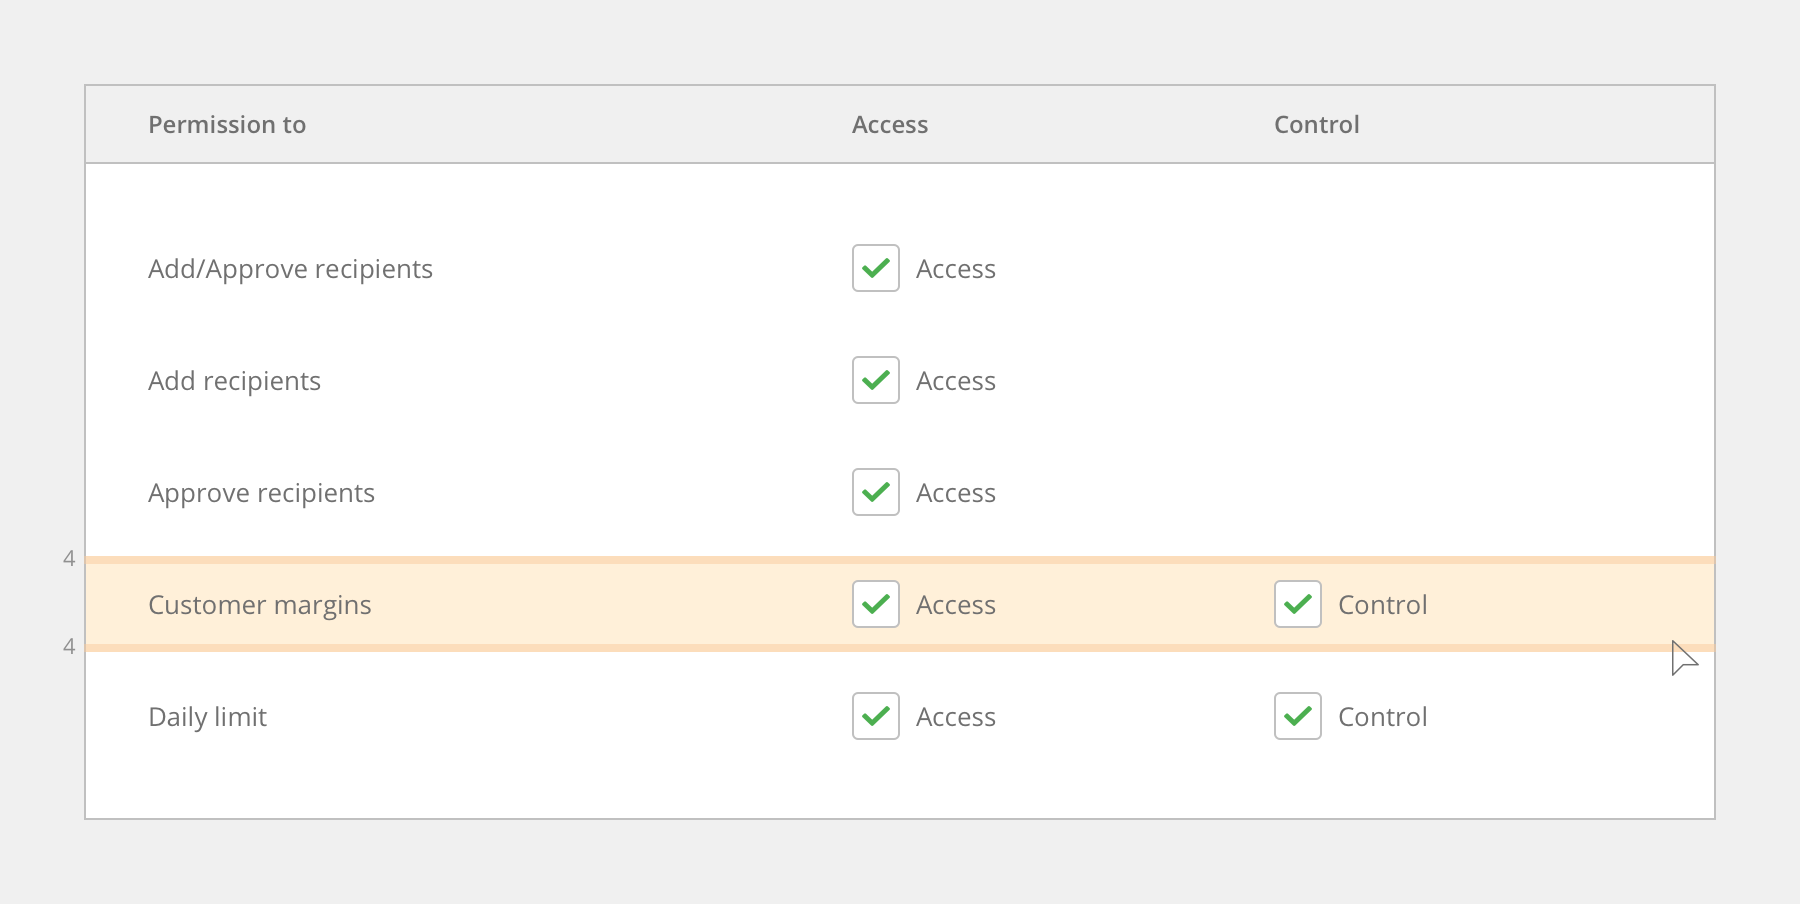
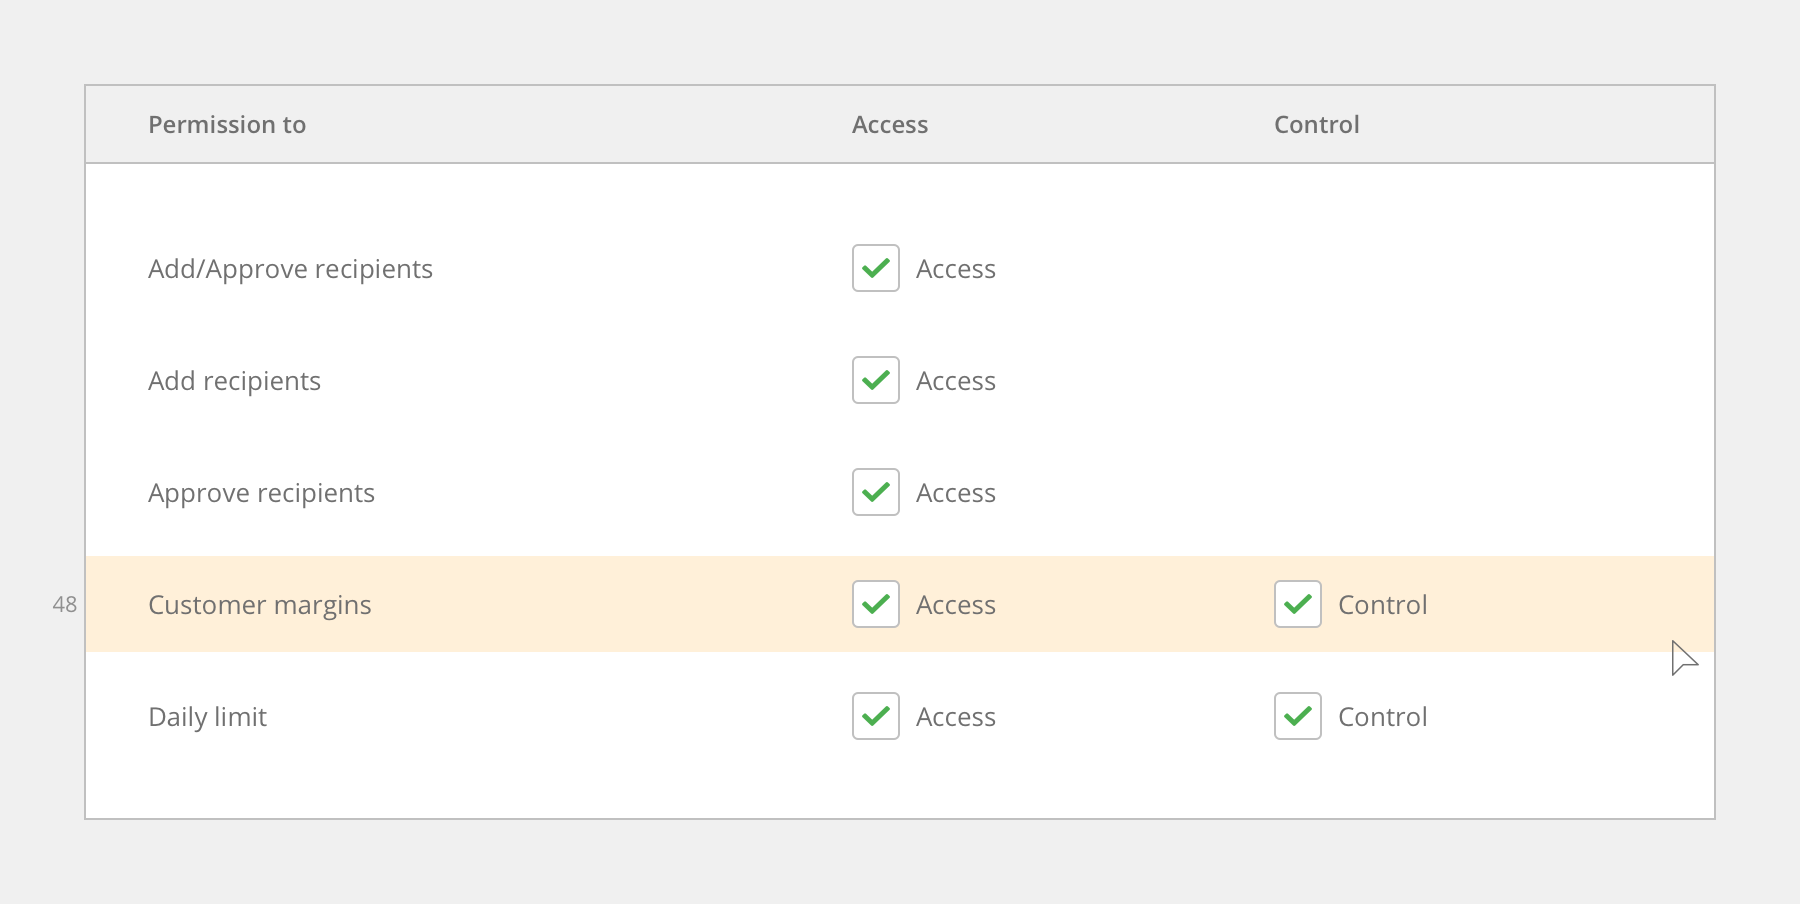
Updates organisms/option-tables.md
Auto commit by GitBook Editor

Changed region(s): [[0.0622, 0.5885, 0.9333, 0.6504], [0.0311, 0.7124, 0.9644, 0.7434], [0.0311, 0.6504, 0.0622, 0.6814]]

diff --git a/organisms/option-tables.md b/organisms/option-tables.md
@@ -39,7 +39,33 @@ padding-right: 16px;
 ##### Rows {#rows}
 
 * The height of rows is 40px.
-* There is a padding top and bottom of 12px.
+* There is a margin between each row of 16px.
+* The first row has a margin top of 32px.
+* The last row has a margin bottom of 32px.
 
 ![](/assets/organisms/option-tables-row-sizing.png)![](/assets/organisms/option-tables-row-spacing.png)
+
+```
+/* Row */
+height: 40px;
+```
+
+---
+
+##### Row hover {#row-hover}
+
+* Every row has a hover effect to make it easier for users to focus on an individual input or input group.
+* The height of the hover is 48px.
+
+![](/assets/organisms/option-tables-row-hover.png)
+
+```
+/* Row hover */
+width: 100%;
+background-color: $O100;
+```
+
+---
+
+
 
